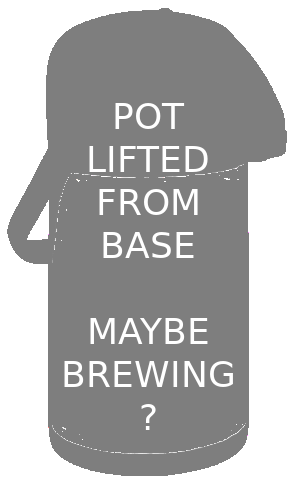
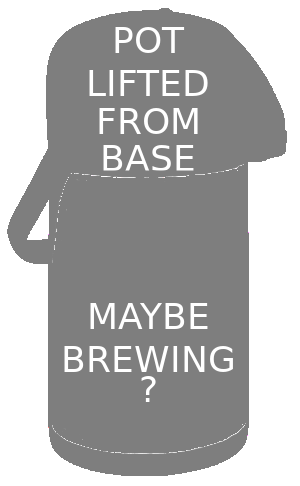
web 'sensor states' working

Changed region(s): [[0.27, 0.0309, 0.69, 0.5556], [0.21, 0.6173, 0.78, 0.8951], [0.48, 0.0309, 0.51, 0.0617]]

diff --git a/code/web/xcoffee.js b/code/web/xcoffee.js
@@ -143,6 +143,15 @@ var pot_below;
 var pot_empty;
 var pot_removed;
 var pot_disconnected;
+var pot_canvas;
+
+// Various states the pot can be in, affecting display elements
+var POT_STATE_REMOVED = 1;
+var POT_STATE_BREWING = 2;
+var POT_STATE_RUNNING = 3;
+
+// Current pot state, one of the above
+var pot_state;
 
 // lower limit of coffee
 var POT_BOTTOM_Y = 454;
@@ -178,10 +187,13 @@ function xcoffee_init()
     pot_empty = document.getElementById("pot_empty");
     pot_removed = document.getElementById("pot_removed");
     pot_disconnected = document.getElementById("pot_disconnected");
+    pot_canvas = document.getElementById("pot_canvas");
 
     events_div = document.getElementById("events");
 
     pot_is_empty = false;
+
+    set_state_removed();
 
     rt_mon = RTMONITOR_API.register(xcoffee_connected, rtmonitor_disconnected);
 
@@ -264,7 +276,7 @@ function update_brew()
 
 function start_brew()
 {
-    var ctx = document.getElementById('pot_canvas').getContext('2d');
+    var ctx = pot_canvas.getContext('2d');
     brew_start = (new Date()).getTime();
     draw_brew_progress(ctx);
     brew_timer = setInterval(update_brew,1000);
@@ -276,18 +288,61 @@ function end_brew()
     console.log("Brew animation ended");
     clearInterval(brew_timer);
     brew_timer = null;
-    const canvas = document.getElementById('pot_canvas');
-    const ctx = canvas.getContext('2d');
+    const ctx = pot_canvas.getContext('2d');
     ctx.clearRect(0, 0, ctx.canvas.width, ctx.canvas.height);
 }
 
-// HERE IS WHERE WE HANDLE THE INCOMING EVENTS FROM THE XCOFFEE SENSOR NODE.
-function xcoffee_handle_msg(msg)
+function set_state_removed(msg)
 {
-    console.log('xcoffee msg',msg);
+    // Do nothing if we're currently brewing
+    if (pot_state == POT_STATE_BREWING)
+    {
+        return;
+    }
 
-    events_div.insertBefore(xcoffee_format_msg(msg),events_div.firstChild);
+    // Otherwise show the 'pot removed' graphic
+    console.log("state REMOVED");
+    pot_state = POT_STATE_REMOVED;
+    pot_removed.style['display'] = 'block';
+}
 
+function set_state_brewing(msg)
+{
+    console.log("state BREWING");
+    pot_state = POT_STATE_BREWING;
+    pot_removed.style['display'] = 'none';
+    if (brew_timer == null)
+    {
+        start_brew();
+    }
+}
+
+function set_state_running(msg)
+{
+    console.log("state RUNNING");
+    pot_state = POT_STATE_RUNNING;
+    pot_removed.style['display'] = 'none';
+
+    if (brew_timer != null)
+    {
+        end_brew();
+    }
+
+    draw_weight(msg);
+
+    draw_new(msg);
+}
+
+function handle_status(msg)
+{
+    if (msg["weight"] != null && msg["weight"] > 1400)
+    {
+        set_state_running(msg);
+    }
+}
+
+function draw_weight(msg)
+{
     if ( msg["weight"] != null )
     {
         var ratio = (msg["weight"] - POT_WEIGHT_EMPTY) / (POT_WEIGHT_FULL - POT_WEIGHT_EMPTY)
@@ -308,13 +363,15 @@ function xcoffee_handle_msg(msg)
         var display_color = ratio == 0 ? "red" : "green";
 
         // display the weight text as cylinder overlay on pot graphic.
-        draw_cyl_text('pot_canvas',
-                 display_weight,40, 95, "green" , // text, height px, offset_x, color
+        draw_cyl_text(pot_canvas,
+                 display_weight,40, 95, display_color , // text, height px, offset_x, color
                  148,375,196,35 // cylinder offset_x, offset_y, width, angle
                  );
     }
+}
 
-
+function draw_new(msg)
+{
     // For previous "COFFEE_NEW", add cylinder text overlay for "new brew time" to pot graphic.
     if ( msg["new_status"] != null )
     {
@@ -327,20 +384,39 @@ function xcoffee_handle_msg(msg)
         // Minutes part from the timestamp
         var mm = ("0" + date.getMinutes()).substr(-2);
 
-        draw_cyl_text('pot_canvas',
+        draw_cyl_text(pot_canvas,
                  hh+':'+mm,60,60,"red",
                  148,155,196,25);
     }
+}
+// HERE IS WHERE WE HANDLE THE INCOMING EVENTS FROM THE XCOFFEE SENSOR NODE.
+function xcoffee_handle_msg(msg)
+{
+    console.log('xcoffee msg',msg);
 
-    console.log("msg event_code =",msg["event_code"])
-    if ( msg["event_code"] == "COFFEE_REMOVED" )
+    events_div.insertBefore(xcoffee_format_msg(msg),events_div.firstChild);
+
+    switch (msg["event_code"])
     {
-        pot_removed.style['display'] = 'block';
-    }
-    else if (msg["event_code"] != null)
-    {
-        console.log('display=none for pot_removed')
-        pot_removed.style['display'] = 'none';
+        case "COFFEE_REMOVED":
+            set_state_removed();
+            break;
+
+        case "COFFEE_GRINDING":
+        case "COFFEE_BREWING":
+            set_state_brewing();
+            break;
+
+        case "COFFEE_POURED":
+        case "COFFEE_NEW":
+        case "COFFEE_REPLACED":
+            set_state_running();
+            break;
+
+        case "COFFEE_STATUS":
+            handle_status(msg);
+        default:
+            break;
     }
 }
 
@@ -410,7 +486,7 @@ function xcoffee_format_msg(msg)
 // vertical slices of that image to the DOM canvas with a suitable x shift (for cylinder effect) and
 // y shift (for tilt).
 function draw_cyl_text(
-                canvas_id, // id of DOM canvas element on which to draw the text
+                drawing_canvas, // id of DOM canvas element on which to draw the text
                 text,      // Text string to draw
                 text_h, text_offset_x, // px values for text height and offset from left side of cylinder
                 text_color, // color for text foreground (background is transparent)
@@ -423,7 +499,6 @@ function draw_cyl_text(
     console.log("draw_cyl_text",text);
 
     // destination DOM canvas to receive the distorted text image
-    var drawing_canvas = document.getElementById(canvas_id);
     var dctx = drawing_canvas.getContext("2d");
     var dw = drawing_canvas.width // DRAWING width of cylinder
 
